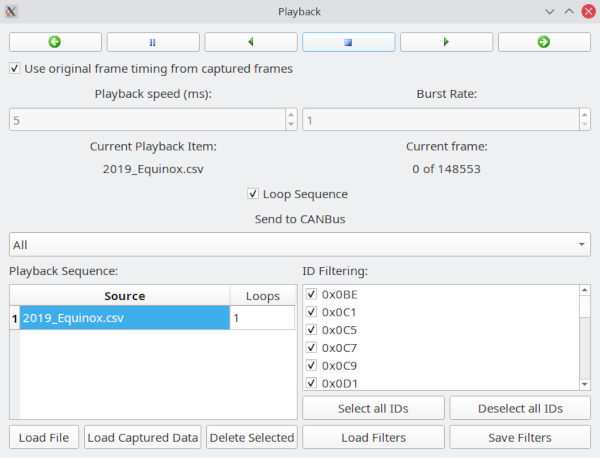
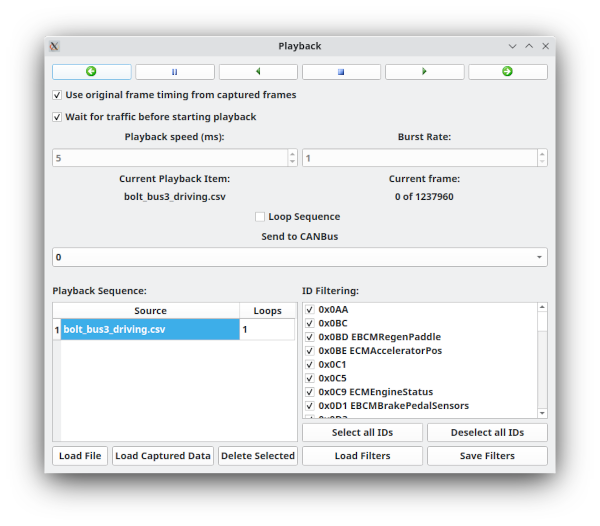
Update some of the help files (Playback and Signal Editor)

Changed region(s): [[0.0, 0.0, 1.0, 0.9782], [0.42, 0.3974, 0.57, 0.4891], [0.69, 0.1834, 0.81, 0.214]]

diff --git a/help/signaleditor.md b/help/signaleditor.md
@@ -3,12 +3,23 @@ DBC Signal Editor
 
 ![Signal Editor](./images/SignalEditor.png)
 
+Not So Secret Things
+=====================
+First of all, here are the things that might otherwise pass under the radar but are functions of this form:
+
+* Pretty much everything on this form now has secret undo functionality. If you make a mistake you can press CTRL-Z to revert it. This will revert practically anything you've done on this form.
+
+* The 8x8 data grid is not locked that way. CAN-FD signals are supported and so up to 64 bytes can be shown in the bitfield. The bitfield will automatically adjust for the number of bytes in a given message. However, you can also switch the views yourself by middle clicking in the bitfield.
+
+* If you right click a different signal in the bitfield you will then be editing that signal instead. This lets you quickly move between signals in the same message. However, this only works for other signals that are either not multiplexed (if you started with a non-multiplexed signal when editing) or otherwise only other signals that have the same multiplexor value.
+
+
 Defining and Editing Signals
 ============================
 
 At the top you can rename the signal and you'll see that it is renamed in the DBC window as well.
 
-The majority of the view is taken up by the bitfield grid. This view shows all the signals contained within this message (that have the same multiplexor value as this one). They're all labeled as well. Bonus fun fact - SavvyCAN technically does support CAN-FD DBC files! That's right, you can load DBC files with CAN-FD signals and they will work. Now, you might wonder how this could work since the grid is 8x8. Well, it won't be if the message you're working on says it has more than 8 data bytes. Up to 64 are supported and the bitfield will adjust accordingly. If you want to see that beautiful 64 byte footage without a CAN-FD signal then try middle clicking on the bitfield. This actually works basically anywhere the bitfield is found in the program. You heard it here first.
+The majority of the view is taken up by the bitfield grid. This view shows all the signals contained within this message (that have the same multiplexor value as this one). They're all labeled as well. Bonus fun fact - SavvyCAN technically does support CAN-FD DBC files! That's right, you can load DBC files with CAN-FD signals and they will work. The bitfield will adjust to show enough bits to show the whole message.
 
 "Bit Length" - This sets how many bits the signal uses. Once you do this you'll see that that many bits are now highlighted in the data grid. The black bit with diagonal stripes is the "start" bit, green bits (with stripes the other way) are the other bits in the signal. Bits used by other signals are colored according to a secret list of colors. They also have the signal name. You should not overlap onto other signals. This could be possible with multiplexed signals but you will NOT see signals on this grid that are not part of the same multiplexor value as this signal so you should NOT overlap here.
 

diff --git a/help/playbackwindow.md b/help/playbackwindow.md
@@ -1,7 +1,7 @@
 Playback Window
 ===============
 
-![Playback Window](./images/PlayBack.png)
+![Playback Window](./images/Playback.png)
 
 
 Preparing Frames for Playback
@@ -18,7 +18,9 @@ The playback window can send frames on a specific bus, all buses (be careful wit
 
 The next order of business is frame timing. There are two approaches possible here. If you click "Use original frame timing from captured frames" then frames will be sent out in approximately the same timing as they came in with. The word approximately is used because it is difficult to get 1ms timing precision on a desktop OS. Frames that come in rapidly might have a 2-3ms jitter. In practice this is almost always irrelevant. This setting is suitable for nearly all uses.
 
-Alternatively, it is also possible to send on a set schedule. With the "Use original" checkbox not checked you can set a playback speed in milliseconds and a burst rate. Burst means that it'll send that many frames every tick. So, if you have a burst of 5 and a timing of 10ms then every 10ms 5 frames will be sent. This mode can provide for a predictable number of frames per second and could be useful to test how quickly a device really requires traffic without faulting. But, it will potentially drastically alter the timing of frames compared to their timing when they were captured.
+Alternatively, it is also possible to send on a set schedule. With the "Use original" checkbox not checked you can set a playback speed in milliseconds and a burst rate. Burst means that it'll send that many frames every tick. So, if you have a burst of 5 and a timing of 10ms then every 10ms 5 frames will be sent. This mode can provide for a predictable number of frames per second and could be useful to test how quickly a device really requires traffic without faulting. But, it will potentially drastically alter the timing of frames compared to their timing when they were captured. You can set a burst rate as well. Burst Rate is the number of frames sent every "tick." This can speed up how fast you can send traffic.
+
+There is also now a checkbox that allows for waiting for traffic before sending CAN frames when you click play forward or backward. If this checkbox is checked you will see (WAITING) to the left of the number of frames below "Current frame." Once any CAN traffic starts to come in your frames will begin to playback automatically. Why would you want to do this? Well, the most likely reason is that you want to play back a CAN capture but you only want to do so once the vehicle has been powered on. And, you want to wait until the CAN buses are active so that you don't fault by sending traffic into nowhere. Lastly, this allows your playback to happen very rapidly after start up which might otherwise be tougher to pull off accurately.
 
 The top of the window has a series of 6 icons all in a row:
 
